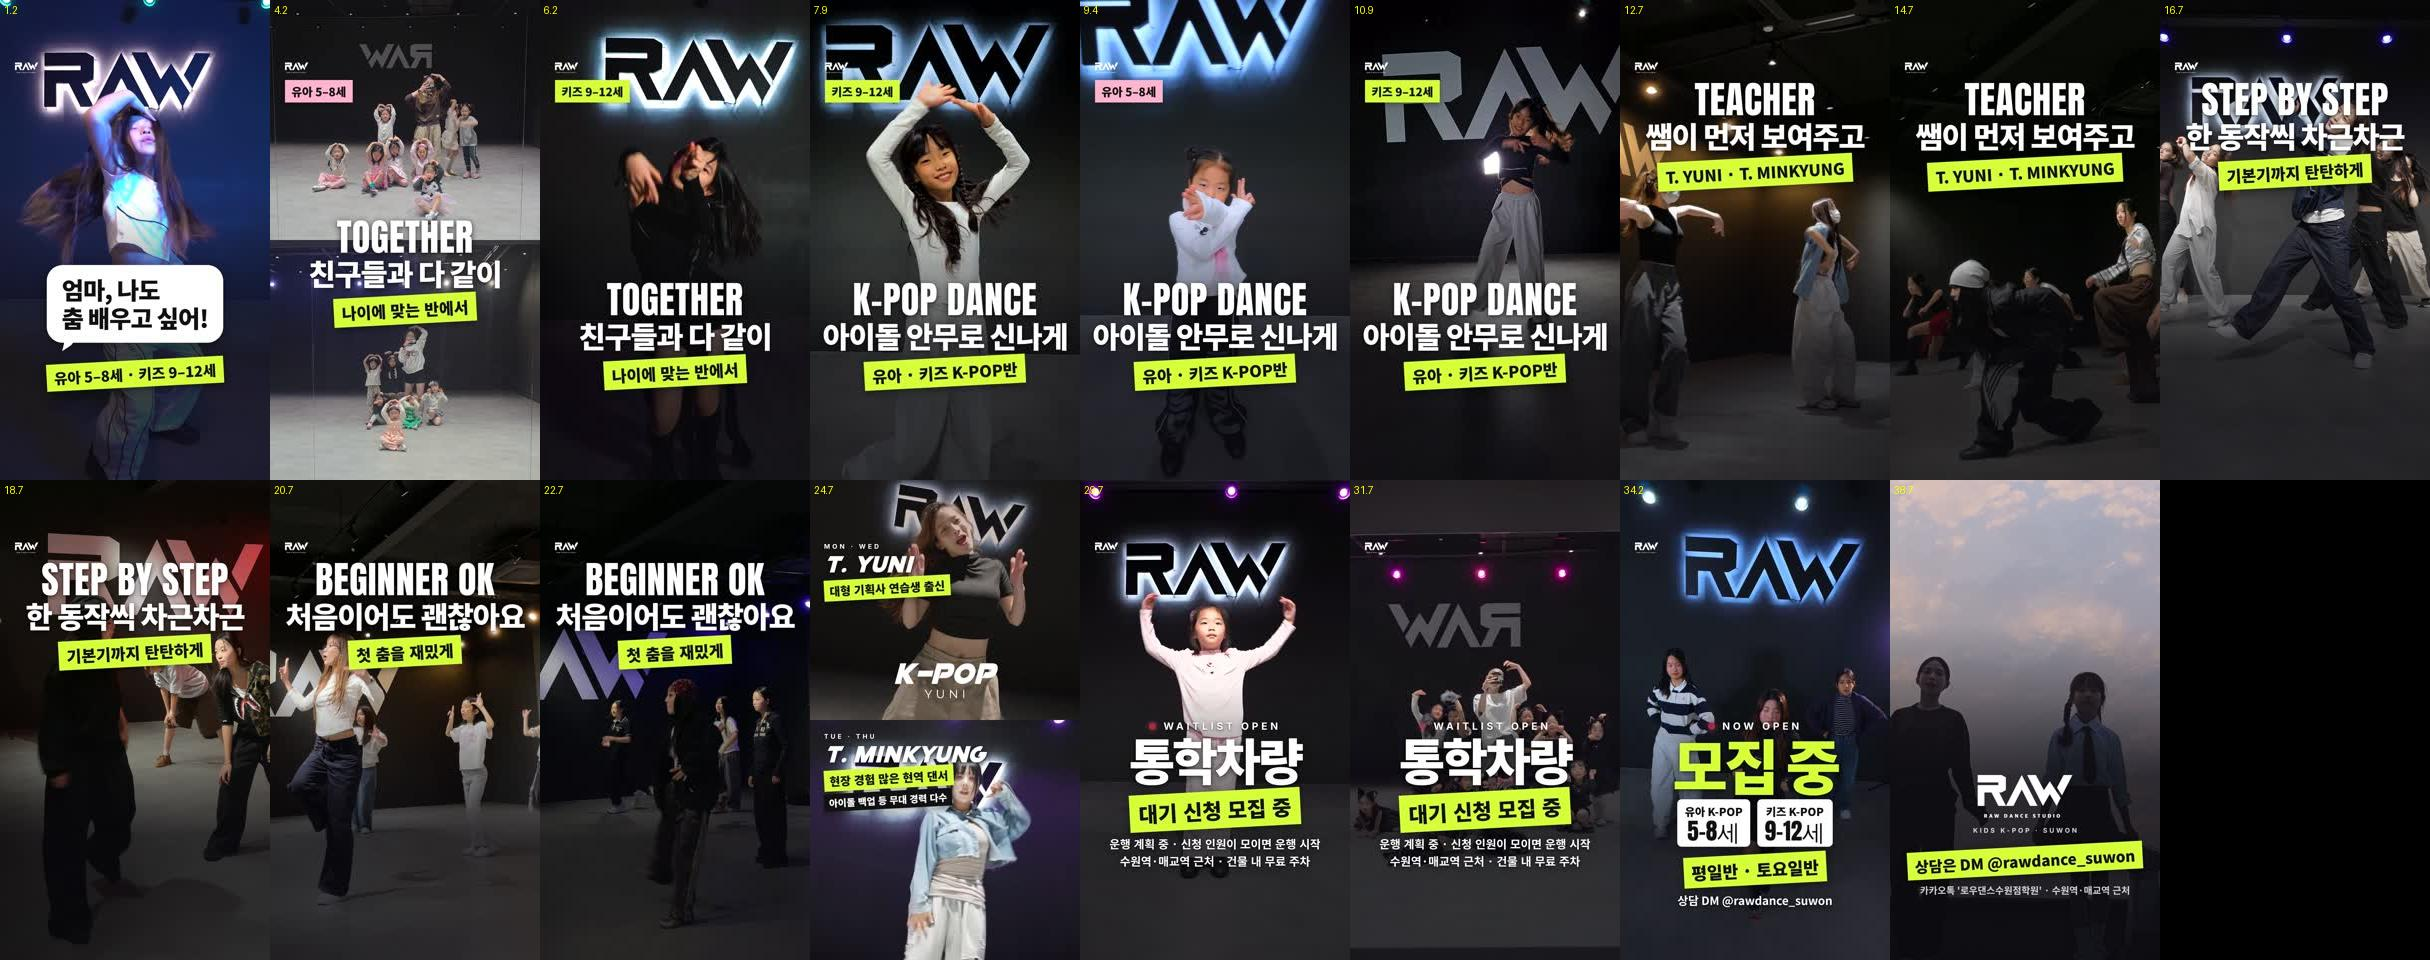
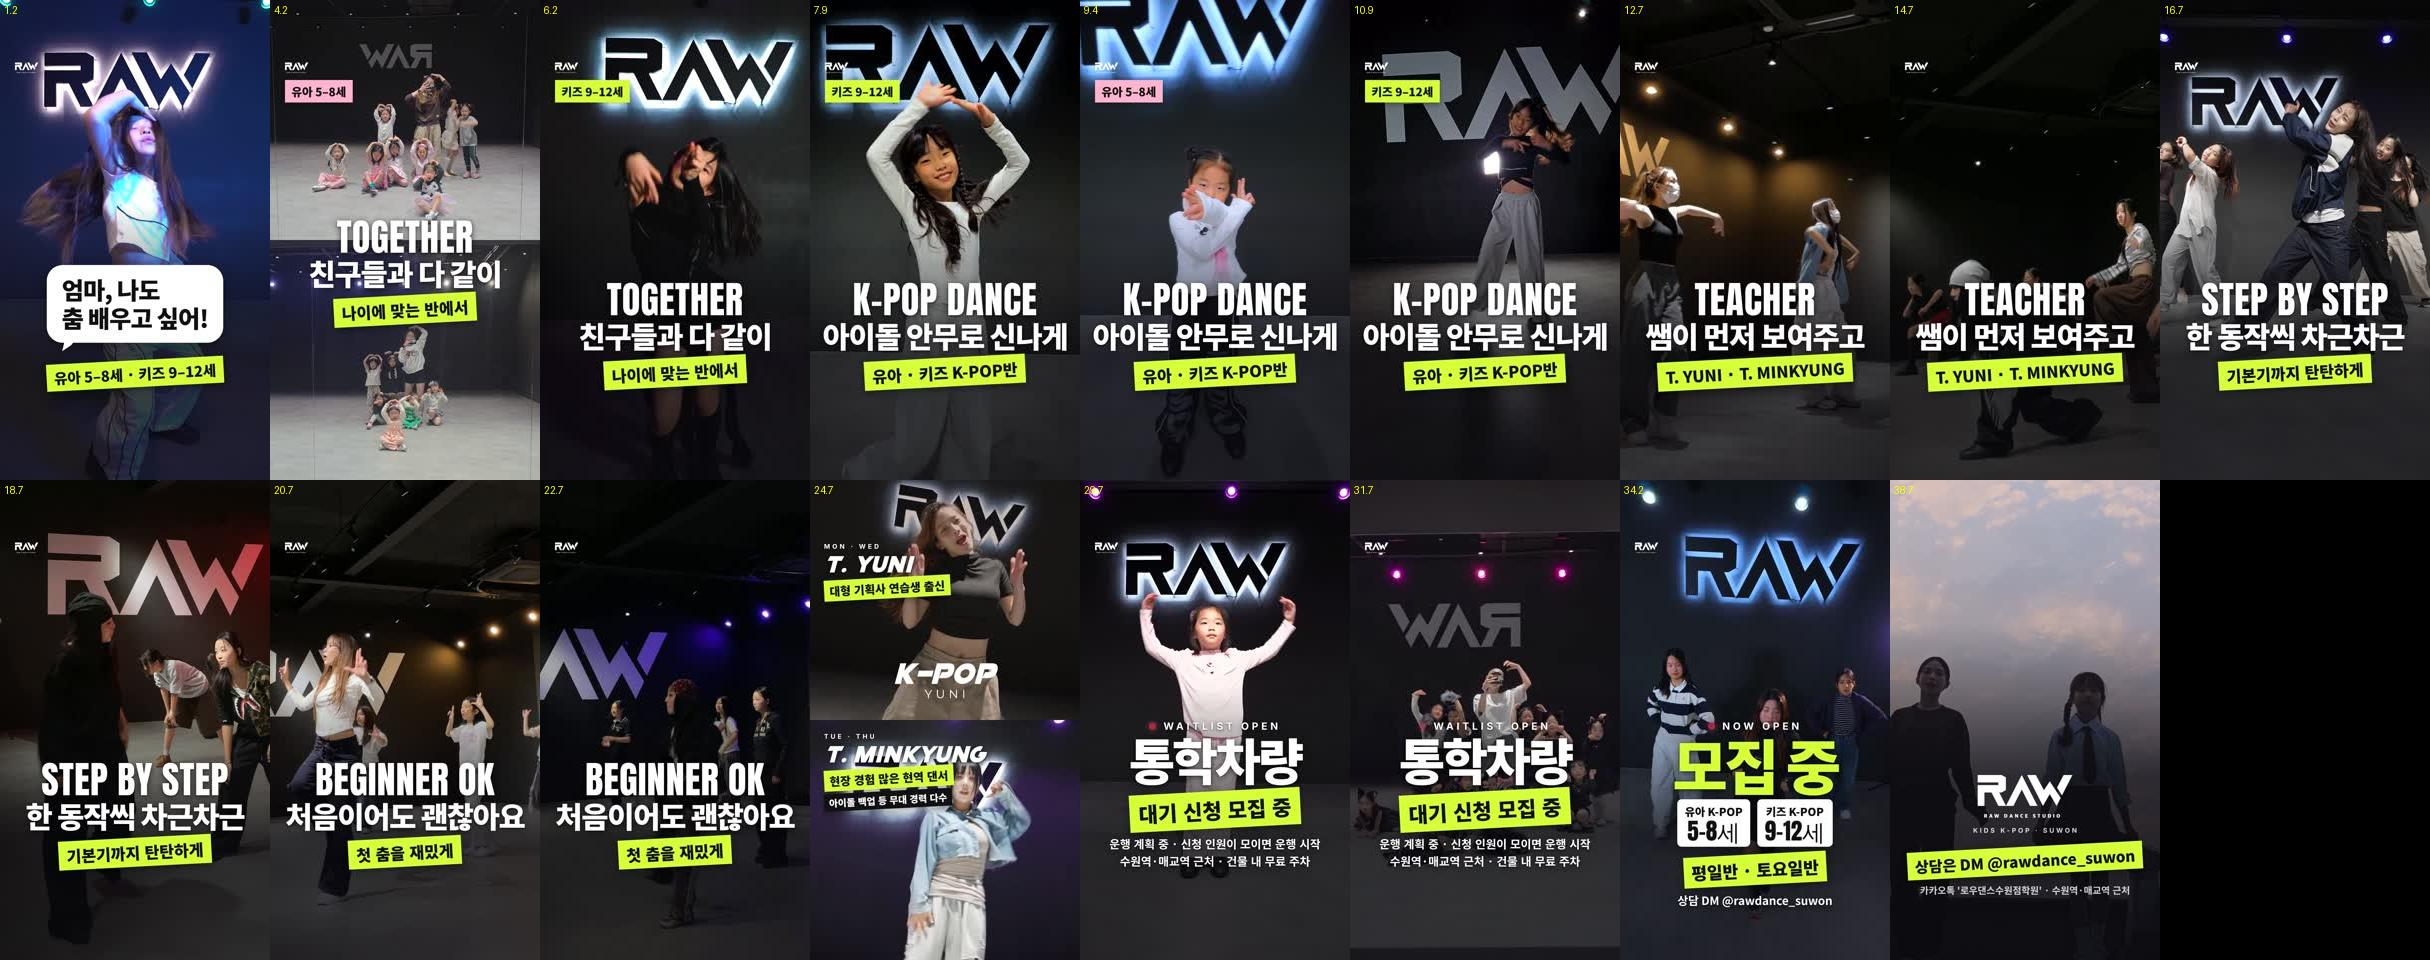
K-POP 광고 B2: 쌤 장면 자막 아래로 (얼굴 안 가리게)
Claude-Session: https://claude.ai/code/session_01CMPXWNa21Fqq6srPZpa27D

diff --git a/content/2026-11-20_kpop-kids-reels3/make_reels.py b/content/2026-11-20_kpop-kids-reels3/make_reels.py
@@ -172,9 +172,10 @@ elif WHICH == "B2":
     ys, ms = yt(1, 5.2), mt(1, 5.2); ZN6 = (0.45, 0.66, 0.65); ZN5 = (0.48, 0.74, 0.72); Y5 = pk("n5_img0316.mov", 1, 2.2)
     K1 = {"kind": "line", "k": "TOGETHER", "e": "친구들과 다 같이", "sub": "나이에 맞는 반에서", "y": 1130}
     K2 = {"kind": "line", "k": "K-POP DANCE", "e": "아이돌 안무로 신나게", "sub": "유아 · 키즈 K-POP반", "y": 1130}
-    T1 = {"kind": "line", "k": "TEACHER", "e": "쌤이 먼저 보여주고", "sub": "T. YUNI · T. MINKYUNG", "y": 330}
-    T2 = {"kind": "line", "k": "STEP BY STEP", "e": "한 동작씩 차근차근", "sub": "기본기까지 탄탄하게", "y": 330}
-    T3 = {"kind": "line", "k": "BEGINNER OK", "e": "처음이어도 괜찮아요", "sub": "첫 춤을 재밌게", "y": 330}
+    # 원장님 11-21 "쌤 장면 자막 조금 아래로" → 위(330) → 아이들 장면과 같은 높이(1130), 얼굴 대신 다리 쪽에
+    T1 = {"kind": "line", "k": "TEACHER", "e": "쌤이 먼저 보여주고", "sub": "T. YUNI · T. MINKYUNG", "y": 1130}
+    T2 = {"kind": "line", "k": "STEP BY STEP", "e": "한 동작씩 차근차근", "sub": "기본기까지 탄탄하게", "y": 1130}
+    T3 = {"kind": "line", "k": "BEGINNER OK", "e": "처음이어도 괜찮아요", "sub": "첫 춤을 재밌게", "y": 1130}
     used = pk("1112_yua_insta.mp4", 2)[0]; VAN = next(t for t in pk("1112_yua_insta.mp4", 4, 4.8, gap=3.0) if abs(t - used) >= 8)
     k = lambda f, i, beats, txt, tag, off=0.3: (beats, ("fill", f, pk(f, 2)[i] + off), dict(txt, tag=tag))
     G = lambda f, cx, tag="": (3, ("square", f, 0.2, 200, cx), dict(K1, tag=tag) if tag else K1)   # 하트 단체샷 (2초 남짓)
